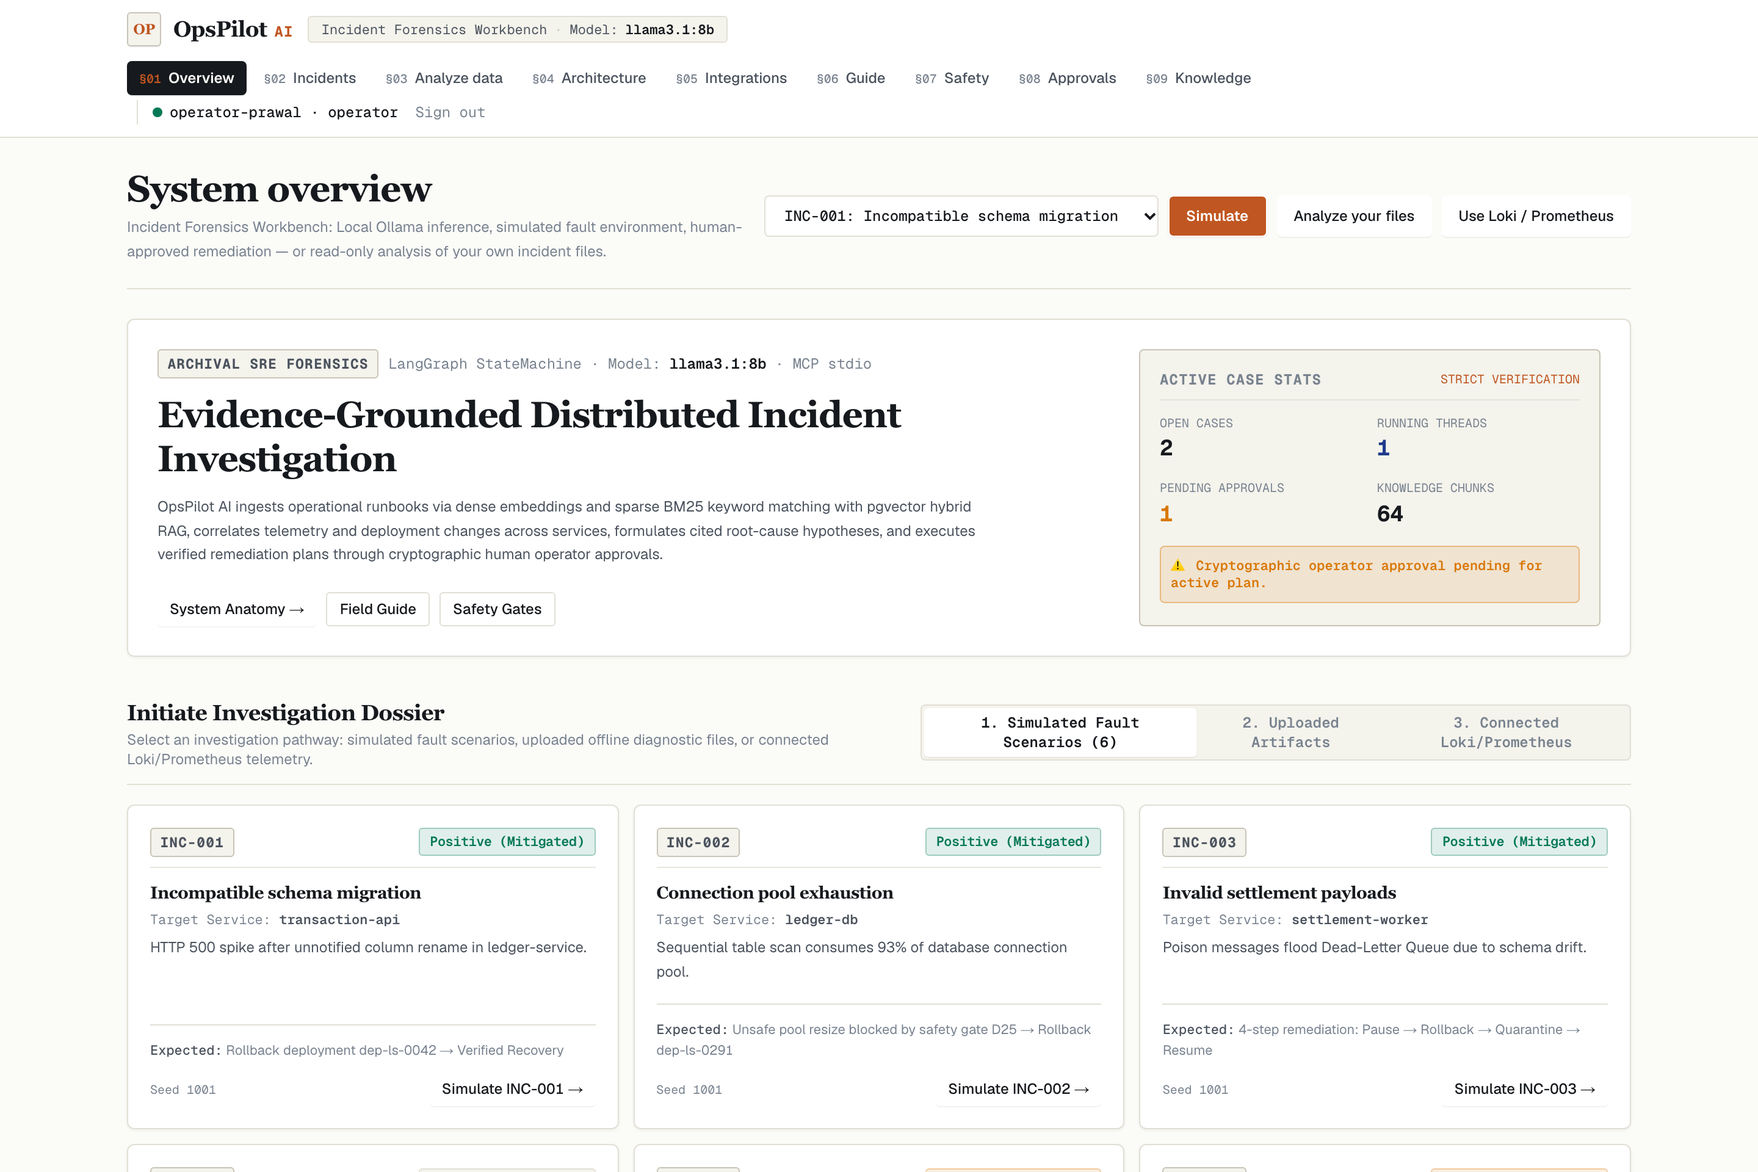
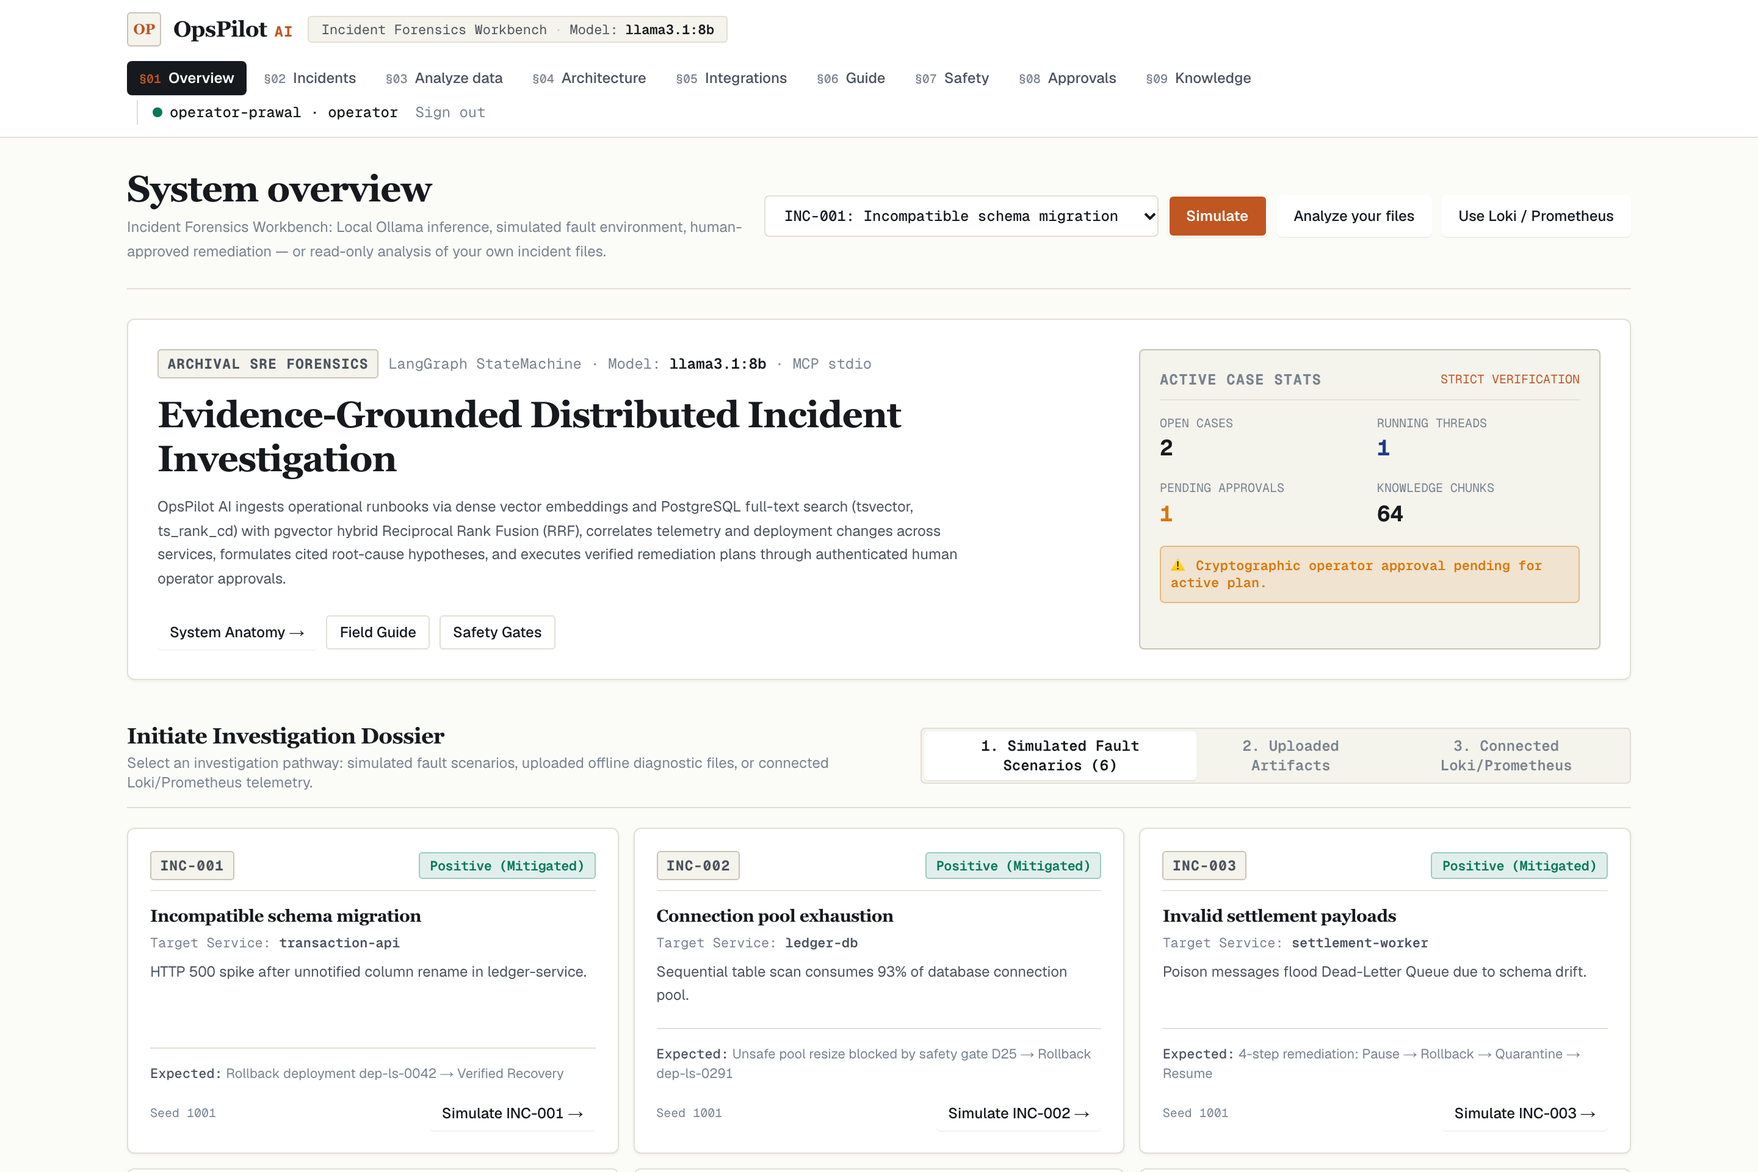
fix(ui): complete v0.7.0 forensic workbench verification, technical content corrections and E2E validation

diff --git a/apps/web/app/investigations/[id]/view.tsx b/apps/web/app/investigations/[id]/view.tsx
@@ -107,12 +107,17 @@ function SynchronizedTimeRibbon({
   onSelectEvent?: (eventId: number) => void;
   selectedEventId?: number | null;
 }) {
-  const startTimeMs = startedAt ? new Date(startedAt).getTime() : 0;
+  const startTimeMs = startedAt
+    ? new Date(startedAt).getTime()
+    : events[0]?.created_at
+    ? new Date(events[0].created_at).getTime()
+    : 0;
 
-  // Format delta offset e.g. "T+00:00", "T+00:24"
+  // Format delta offset e.g. "T+00:00", "T+00:24" — never fabricates timestamps
   const getOffset = (created: string) => {
-    if (!startTimeMs) return "T+00:00";
+    if (!startTimeMs || !created) return "—";
     const curMs = new Date(created).getTime();
+    if (isNaN(curMs) || isNaN(startTimeMs)) return "—";
     const diffSec = Math.max(0, Math.round((curMs - startTimeMs) / 1000));
     const m = Math.floor(diffSec / 60);
     const s = diffSec % 60;
@@ -135,33 +140,39 @@ function SynchronizedTimeRibbon({
       </div>
 
       <div className="flex items-center gap-2 overflow-x-auto py-1 scrollbar-thin">
-        {keyEvents.slice(-7).map((ev) => {
-          const isSelected = selectedEventId === ev.id;
-          const isApproval = ev.event_type === "approval_requested";
-          const isDone = ev.node === "verify_recovery" || ev.event_type === "workflow_completed";
-          const offset = getOffset(ev.created_at);
+        {keyEvents.length === 0 ? (
+          <span className="text-muted text-xs italic py-1 font-mono">
+            Awaiting agent execution events…
+          </span>
+        ) : (
+          keyEvents.slice(-7).map((ev) => {
+            const isSelected = selectedEventId === ev.id;
+            const isApproval = ev.event_type === "approval_requested";
+            const isDone = ev.node === "verify_recovery" || ev.event_type === "workflow_completed";
+            const offset = getOffset(ev.created_at);
 
-          return (
-            <button
-              key={ev.id}
-              onClick={() => onSelectEvent?.(ev.id)}
-              className={`flex shrink-0 items-center gap-2 rounded-[3px] border px-2.5 py-1 text-left font-mono text-xs transition-all cursor-pointer ${
-                isSelected
-                  ? "border-accent bg-accent-soft text-accent ring-1 ring-accent"
-                  : isApproval
-                  ? "border-warn/60 bg-warn-soft/40 text-warn"
-                  : isDone
-                  ? "border-success/60 bg-success-soft/30 text-success"
-                  : "border-border bg-panel-2 hover:bg-panel text-text"
-              }`}
-            >
-              <span className="font-bold tabular-nums text-[11px] text-muted">{offset}</span>
-              <span className="font-semibold text-text truncate max-w-[140px]">
-                {ev.node ? humanize(ev.node) : humanize(ev.event_type)}
-              </span>
-            </button>
-          );
-        })}
+            return (
+              <button
+                key={ev.id}
+                onClick={() => onSelectEvent?.(ev.id)}
+                className={`flex shrink-0 items-center gap-2 rounded-[3px] border px-2.5 py-1 text-left font-mono text-xs transition-all cursor-pointer ${
+                  isSelected
+                    ? "border-accent bg-accent-soft text-accent ring-1 ring-accent"
+                    : isApproval
+                    ? "border-warn/60 bg-warn-soft/40 text-warn"
+                    : isDone
+                    ? "border-success/60 bg-success-soft/30 text-success"
+                    : "border-border bg-panel-2 hover:bg-panel text-text"
+                }`}
+              >
+                <span className="font-bold tabular-nums text-[11px] text-muted">{offset}</span>
+                <span className="font-semibold text-text truncate max-w-[140px]">
+                  {ev.node ? humanize(ev.node) : humanize(ev.event_type)}
+                </span>
+              </button>
+            );
+          })
+        )}
       </div>
     </div>
   );
@@ -459,6 +470,17 @@ function EvidenceList({
                     </code>
                   </div>
                 )}
+
+                {isSelected && e.data && (
+                  <div className="mt-3 rounded border border-border bg-panel-2 p-3 font-mono text-[11px]">
+                    <div className="mb-1 font-bold text-text-muted uppercase text-[10px]">
+                      Underlying Forensic Payload
+                    </div>
+                    <pre className="max-h-60 overflow-auto whitespace-pre-wrap text-text">
+                      {JSON.stringify(e.data, null, 2)}
+                    </pre>
+                  </div>
+                )}
               </div>
             );
           })
@@ -474,6 +496,11 @@ function EvidenceList({
 
 export function InvestigationView() {
   const { id } = useParams<{ id: string }>();
+  // Keying by id guarantees that switching investigations completely resets all local state
+  return <InvestigationWorkspace key={id} id={id} />;
+}
+
+function InvestigationWorkspace({ id }: { id: string }) {
   const qc = useQueryClient();
 
   const inv = useQuery({
@@ -622,8 +649,9 @@ export function InvestigationView() {
                     <Link
                       className="text-accent hover:underline font-semibold"
                       href={`/incidents/${v.incident_id}`}
+                      aria-label="incident view"
                     >
-                      Incident Record →
+                      incident view
                     </Link>
                   </>
                 )}
@@ -661,6 +689,21 @@ export function InvestigationView() {
 
       <ErrorNote error={inv.error ?? resume.error ?? cancel.error} />
 
+      {v?.error && (
+        <div
+          role="alert"
+          className="dossier-paper border-l-4 border-l-danger p-4 text-xs font-mono text-danger"
+        >
+          <div className="flex items-center gap-2 font-bold">
+            <span className="stamp-blocked">INVESTIGATION FAILED</span>
+            <span>{v.error_class ?? "ExecutionError"}</span>
+          </div>
+          <p className="mt-1 font-sans text-text-muted leading-relaxed">
+            {v.error}
+          </p>
+        </div>
+      )}
+
       {/* Synchronized Incident Timeline / Time-Scrubber Ribbon */}
       <SynchronizedTimeRibbon
         startedAt={v?.started_at}
@@ -680,7 +723,7 @@ export function InvestigationView() {
             <span>Connected Loki / Prometheus Telemetry Snapshot</span>
           </div>
           <p className="mt-1 font-sans text-text-muted leading-relaxed">
-            Telemetry is captured from the allowlisted query snapshot (connector tool server{" "}
+            <strong>Read-only analysis of connected telemetry.</strong> Telemetry is captured from the allowlisted query snapshot (connector tool server{" "}
             <code>opspilot-connected-telemetry</code>); runbooks are indexed from pgvector. Remediation steps are provided as advisory suggestions only. Real infrastructure actions are disabled.
           </p>
         </div>
@@ -692,7 +735,7 @@ export function InvestigationView() {
             <span>Uploaded Artifacts &amp; Trace Analysis</span>
           </div>
           <p className="mt-1 font-sans text-text-muted leading-relaxed">
-            Evidence is ingested from uploaded diagnostic files (tool server <code>opspilot-uploaded-evidence</code>). Remediation is published as advisory guidance only. No mutating commands are executed.
+            <strong>Read-only analysis of uploaded evidence.</strong> Evidence is ingested from uploaded diagnostic files (tool server <code>opspilot-uploaded-evidence</code>). Remediation is published as advisory guidance only. No mutating commands are executed.
           </p>
         </div>
       )}
@@ -837,7 +880,7 @@ export function InvestigationView() {
             {/* Root Cause Hypotheses Dossier */}
             <Card
               title="Root Cause Hypotheses"
-              subtitle="Evidence-grounded hypothesis ranking (model-estimated confidence, uncalibrated probability)"
+              subtitle="Evidence-grounded hypothesis ranking (model-estimated confidence, not a calibrated statistical probability)"
               actions={
                 v?.result?.classification && (
                   <span className="font-mono text-xs text-muted">
@@ -893,7 +936,7 @@ export function InvestigationView() {
                           {/* Interactive Evidence Citation Coordinates */}
                           <div className="mt-3 flex flex-wrap items-center gap-1.5 border-t border-border pt-2.5 text-[11px] text-muted">
                             <span className="font-bold text-text-muted">
-                              Supporting exhibits:
+                              Supporting evidence:
                             </span>
                             {h.supporting_evidence_ids.map((eid) => (
                               <button

diff --git a/apps/web/app/page.tsx b/apps/web/app/page.tsx
@@ -188,7 +188,7 @@ export default function OverviewPage() {
               Evidence-Grounded Distributed Incident Investigation
             </h2>
             <p className="max-w-2xl text-xs leading-relaxed text-text-muted">
-              OpsPilot AI ingests operational runbooks via dense embeddings and sparse BM25 keyword matching with pgvector hybrid RAG, correlates telemetry and deployment changes across services, formulates cited root-cause hypotheses, and executes verified remediation plans through cryptographic human operator approvals.
+              OpsPilot AI ingests operational runbooks via dense vector embeddings and PostgreSQL full-text search (tsvector, ts_rank_cd) with pgvector hybrid Reciprocal Rank Fusion (RRF), correlates telemetry and deployment changes across services, formulates cited root-cause hypotheses, and executes verified remediation plans through authenticated human operator approvals.
             </p>
 
             <div className="flex flex-wrap items-center gap-2 pt-2">
@@ -219,24 +219,24 @@ export default function OverviewPage() {
             <div className="grid grid-cols-2 gap-3">
               <div>
                 <div className="text-[10px] text-muted">OPEN CASES</div>
-                <div className="text-lg font-bold text-text tabular-nums">{openIncidentsCount}</div>
+                <div className="text-lg font-bold text-text tabular-nums" suppressHydrationWarning>{openIncidentsCount}</div>
               </div>
               <div>
                 <div className="text-[10px] text-muted">RUNNING THREADS</div>
-                <div className="text-lg font-bold text-info tabular-nums">{runningInvsCount}</div>
+                <div className="text-lg font-bold text-info tabular-nums" suppressHydrationWarning>{runningInvsCount}</div>
               </div>
               <div>
                 <div className="text-[10px] text-muted">PENDING APPROVALS</div>
-                <div className="text-lg font-bold text-warn tabular-nums">{pendingApprovalsCount}</div>
+                <div className="text-lg font-bold text-warn tabular-nums" suppressHydrationWarning>{pendingApprovalsCount}</div>
               </div>
               <div>
                 <div className="text-[10px] text-muted">KNOWLEDGE CHUNKS</div>
-                <div className="text-lg font-bold text-text tabular-nums">{knowledgeChunksCount}</div>
+                <div className="text-lg font-bold text-text tabular-nums" suppressHydrationWarning>{knowledgeChunksCount}</div>
               </div>
             </div>
             {pendingApprovalsCount > 0 && (
               <div className="rounded border border-warn/40 bg-warn-soft p-2 text-[11px] text-warn font-semibold">
-                ⚠ Cryptographic operator approval pending for active plan.
+                ⚠ Authenticated operator approval pending for active plan.
               </div>
             )}
           </div>

diff --git a/apps/web/app/prototype/concept-b/home/page.tsx b/apps/web/app/prototype/concept-b/home/page.tsx
@@ -22,7 +22,7 @@ export default function ConceptBHomePage() {
               MISSION CONTROL // INCIDENT FLIGHT DECK
             </h2>
             <p className="max-w-2xl text-xs text-[#8B97A8] leading-relaxed">
-              Continuous operational telemetry recording, automated failure anomaly attribution, and cryptographic human authorization for high-stakes distributed systems.
+              Continuous operational telemetry recording, automated failure anomaly attribution, and authenticated human authorization for high-stakes distributed systems.
             </p>
           </div>
 
@@ -139,7 +139,7 @@ export default function ConceptBHomePage() {
                 service: "settlement-worker",
                 status: "MULTI-STEP HITL",
                 tone: "green",
-                summary: "Poison messages flood Dead-Letter Queue due to schema drift. 4-step remediation executed with step-by-step cryptographic approval.",
+                summary: "Poison messages flood Dead-Letter Queue due to schema drift. 4-step remediation executed with step-by-step authenticated approval.",
                 resolution: "Pause → Rollback → Quarantine → Resume",
               },
               {
@@ -299,7 +299,7 @@ export default function ConceptBHomePage() {
             <span className="text-[10px] font-bold text-[#10B981]">[CH-04: ACTUATOR]</span>
             <h4 className="mt-1 font-bold text-white">Human-Signed Dispatch</h4>
             <p className="mt-1.5 text-[11px] text-[#8B97A8] leading-relaxed">
-              Requires valid cryptographic operator token. Multi-step plans execute inside sandboxed container scopes.
+              Requires valid authenticated operator token. Multi-step plans execute inside sandboxed container scopes.
             </p>
           </div>
         </div>

diff --git a/apps/web/app/prototype/concept-a/home/page.tsx b/apps/web/app/prototype/concept-a/home/page.tsx
@@ -22,7 +22,7 @@ export default function ConceptAHomePage() {
               Evidence-grounded root-cause forensics for distributed infrastructure.
             </h2>
             <p className="max-w-2xl text-base leading-relaxed text-[#4A525D]">
-              OpsPilot functions like an independent forensics laboratory. Rather than hallucinating or executing unconstrained bash scripts, the AI agent ingests verifiable telemetry exhibits, cross-examines competing failure hypotheses against approved runbooks, and submits deterministic remediation plans to cryptographic human authorization.
+              OpsPilot functions like an independent forensics laboratory. Rather than hallucinating or executing unconstrained bash scripts, the AI agent ingests verifiable telemetry exhibits, cross-examines competing failure hypotheses against approved runbooks, and submits deterministic remediation plans to authenticated human authorization.
             </p>
           </div>
 
@@ -123,7 +123,7 @@ export default function ConceptAHomePage() {
                 service: "settlement-worker",
                 tag: "Multi-Step HITL",
                 tagTone: "emerald",
-                summary: "Poison messages flood Dead-Letter Queue. Agent formulates 4-step plan with cryptographic human approval for each stage.",
+                summary: "Poison messages flood Dead-Letter Queue. Agent formulates 4-step plan with authenticated human approval for each stage.",
                 remediation: "Pause → Rollback → Quarantine → Resume",
               },
               {

diff --git a/apps/web/app/guide/page.tsx b/apps/web/app/guide/page.tsx
@@ -38,7 +38,7 @@ export default function GuidePage() {
               <strong className="text-text">Deterministic Safety Gates:</strong> Hard Python rules evaluate every AI remediation proposal against impact, correlation, ambiguity, and capacity constraints before any action can be presented to an operator.
             </li>
             <li>
-              <strong className="text-text">Human-in-the-Loop (HITL):</strong> Every state-changing action requires an authenticated operator decision. Approvals mint single-use, 60-second cryptographic tokens independently verified by the MCP action server.
+              <strong className="text-text">Human-in-the-Loop (HITL):</strong> Every state-changing action requires an authenticated operator decision. Approvals mint single-use, 60-second HMAC-signed tokens independently verified by the MCP action server.
             </li>
             <li>
               <strong className="text-text">Affirmative Recovery Verification:</strong> Incidents are never marked resolved or mitigated unless post-action telemetry confirms all recovery thresholds have returned to baseline.

diff --git a/apps/web/app/prototype/concept-a/guide/page.tsx b/apps/web/app/prototype/concept-a/guide/page.tsx
@@ -100,7 +100,7 @@ export default function ConceptAGuidePage() {
                   <span className="exhibit-tag">MODE 01</span>
                   <h4 className="mt-2 font-serif-heading font-bold text-[#16191D]">Simulator &amp; Sandboxed HITL</h4>
                   <p className="mt-1 text-[#4A525D]">
-                    Six built-in failure scenarios. Evaluates full loop: triage, multi-hypothesis formulation, safety gates, cryptographic approval, and containerized remediation execution.
+                    Six built-in failure scenarios. Evaluates full loop: triage, multi-hypothesis formulation, safety gates, authenticated operator approval, and containerized remediation execution.
                   </p>
                 </div>
                 <div className="rounded border border-[#E2DFD5] bg-[#FBFBF8] p-4 text-xs">

diff --git a/apps/web/app/architecture/page.tsx b/apps/web/app/architecture/page.tsx
@@ -141,7 +141,7 @@ const COMPONENT_DETAILS: Record<string, ComponentDetail> = {
     id: "browser-ui",
     name: "Operator UI (Next.js 16)",
     category: "Presentation Layer",
-    role: "Single-pane-of-glass operations console for human SRE operators. Renders incident summaries, live investigation progress, root-cause hypotheses, and cryptographic remediation approval prompts.",
+    role: "Single-pane-of-glass operations console for human SRE operators. Renders incident summaries, live investigation progress, root-cause hypotheses, and authenticated remediation approval prompts.",
     sourcePath: "apps/web",
     inputs: ["Operator credentials (passphrase)", "Approval/Rejection decisions", "Scenario simulation triggers"],
     outputs: ["Authenticated browser session", "CSRF-protected mutation requests"],

diff --git a/apps/web/app/layout.tsx b/apps/web/app/layout.tsx
@@ -14,7 +14,7 @@ const geistMono = Geist_Mono({ variable: "--font-geist-mono", subsets: ["latin"]
 export const metadata: Metadata = {
   title: "OpsPilot AI — Incident Forensics Workbench",
   description:
-    "Evidence-grounded autonomous incident investigation with deterministic safety gates, hybrid pgvector RAG, and cryptographic human-in-the-loop approvals.",
+    "Evidence-grounded autonomous incident investigation with deterministic safety gates, PostgreSQL tsvector and pgvector hybrid RAG, and authenticated human-in-the-loop approvals.",
 };
 
 export default function RootLayout({

diff --git a/apps/web/app/prototype/concept-b/architecture/page.tsx b/apps/web/app/prototype/concept-b/architecture/page.tsx
@@ -46,7 +46,7 @@ const SUBSYSTEMS: Subsystem[] = [
     busType: "HYBRID_STORAGE",
     status: "ONLINE",
     file: "packages/rag/opspilot_rag/retrieval.py",
-    role: "Dense vector search (1024 dims) + BM25 keyword matching for runbooks and postmortems.",
+    role: "Dense vector search (1024 dims) + PostgreSQL tsvector full-text search for runbooks and postmortems.",
     inputs: ["Diagnostic Query String", "Service Filter"],
     outputs: ["Ranked Runbook Chunks with Source Line Offsets"],
     safetyBoundary: "Read-only database roles; excludes draft or superseded runbook revisions.",

diff --git a/apps/web/lib/models.tsx b/apps/web/lib/models.tsx
@@ -47,7 +47,11 @@ export function ModelName({ kind = "llm", className }: { kind?: "llm" | "embeddi
   const m = useActiveModels();
   const value = kind === "llm" ? m.llm : m.embedding;
   return (
-    <code className={className ?? "font-mono text-accent"} title={kind === "llm" ? "LLM_MODEL" : "EMBEDDING_MODEL"}>
+    <code
+      suppressHydrationWarning
+      className={className ?? "font-mono text-accent"}
+      title={kind === "llm" ? "LLM_MODEL" : "EMBEDDING_MODEL"}
+    >
       {value ?? (kind === "llm" ? "LLM_MODEL" : "EMBEDDING_MODEL")}
     </code>
   );

diff --git a/apps/web/app/approvals/page.tsx b/apps/web/app/approvals/page.tsx
@@ -20,7 +20,7 @@ export default function ApprovalsPage() {
     <div className="space-y-6">
       <PageHeader
         title="Action approvals"
-        subtitle="Every state-changing action requires an explicit, cryptographic backend-verified decision."
+        subtitle="Every state-changing action requires an explicit, authenticated operator decision verified by the backend."
         actions={
           <div role="group" aria-label="Filter" className="flex items-center gap-1.5 rounded-lg border border-border bg-panel p-1">
             {FILTERS.map((f) => (

diff --git a/apps/web/app/prototype/concept-a/architecture/page.tsx b/apps/web/app/prototype/concept-a/architecture/page.tsx
@@ -44,7 +44,7 @@ const COMPONENTS: ArchComponent[] = [
     id: "COMP-03",
     name: "Hybrid pgvector RAG Engine",
     category: "rag",
-    role: "Indexes operational runbooks and past postmortems using dense embeddings + sparse BM25 keyword matching.",
+    role: "Indexes operational runbooks and past postmortems using dense embeddings + PostgreSQL tsvector full-text search.",
     status: "implemented",
     sourcePath: "packages/rag/opspilot_rag/retrieval.py",
     inputs: ["Query Text", "Service Scope"],
